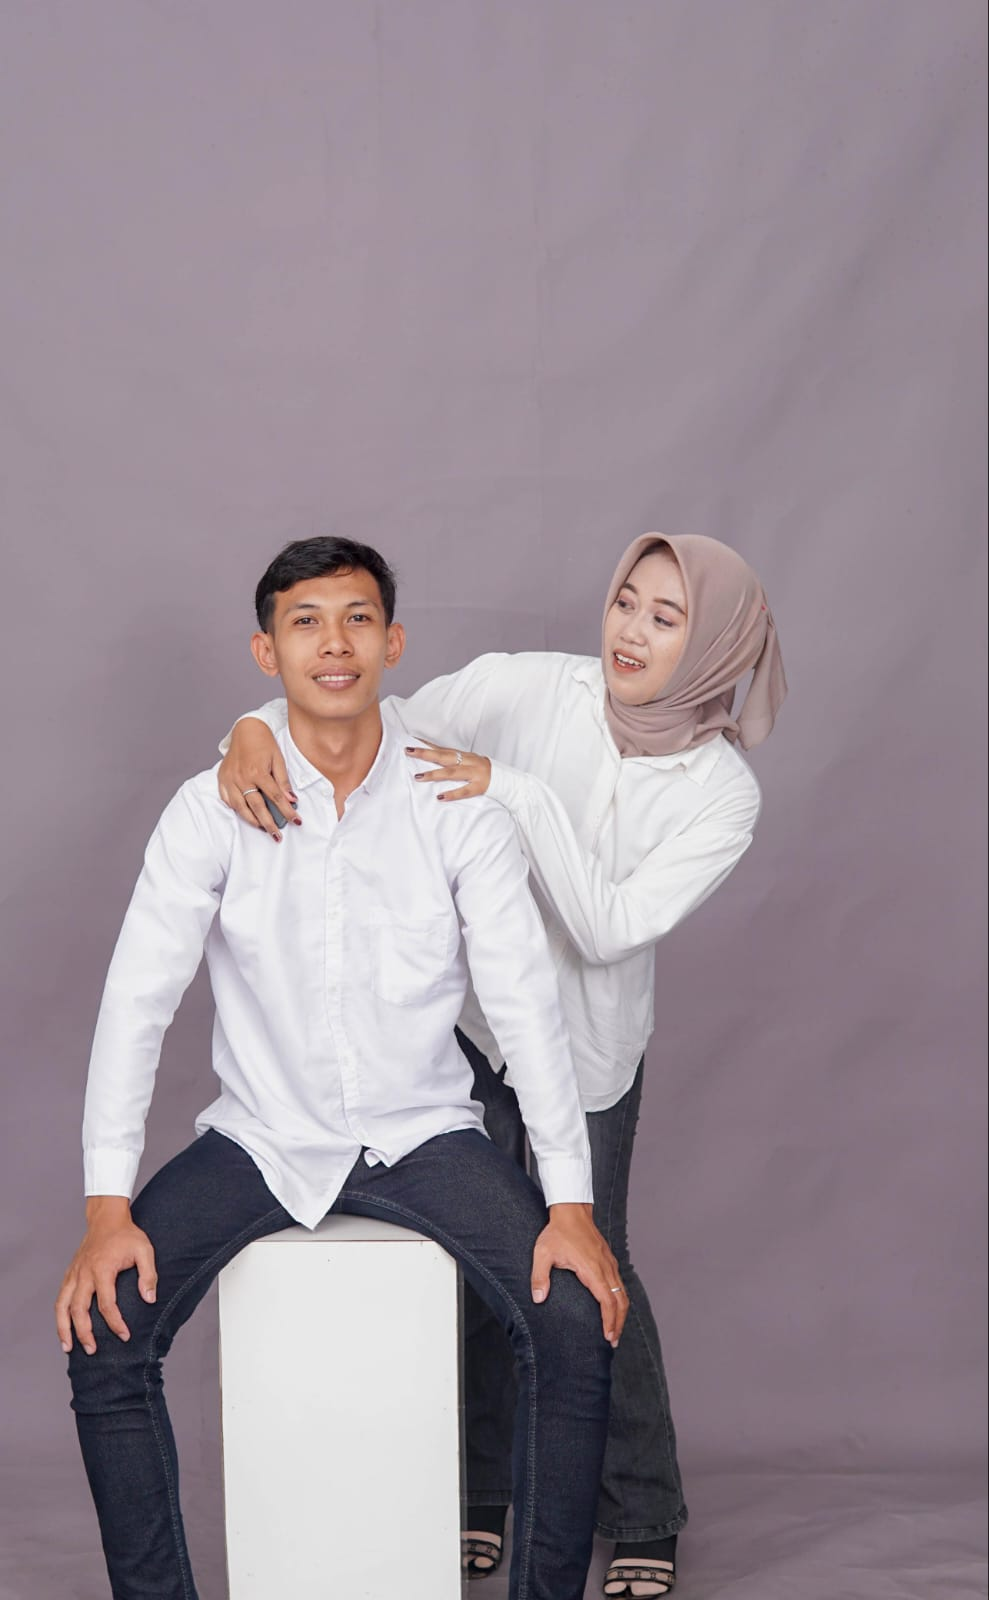
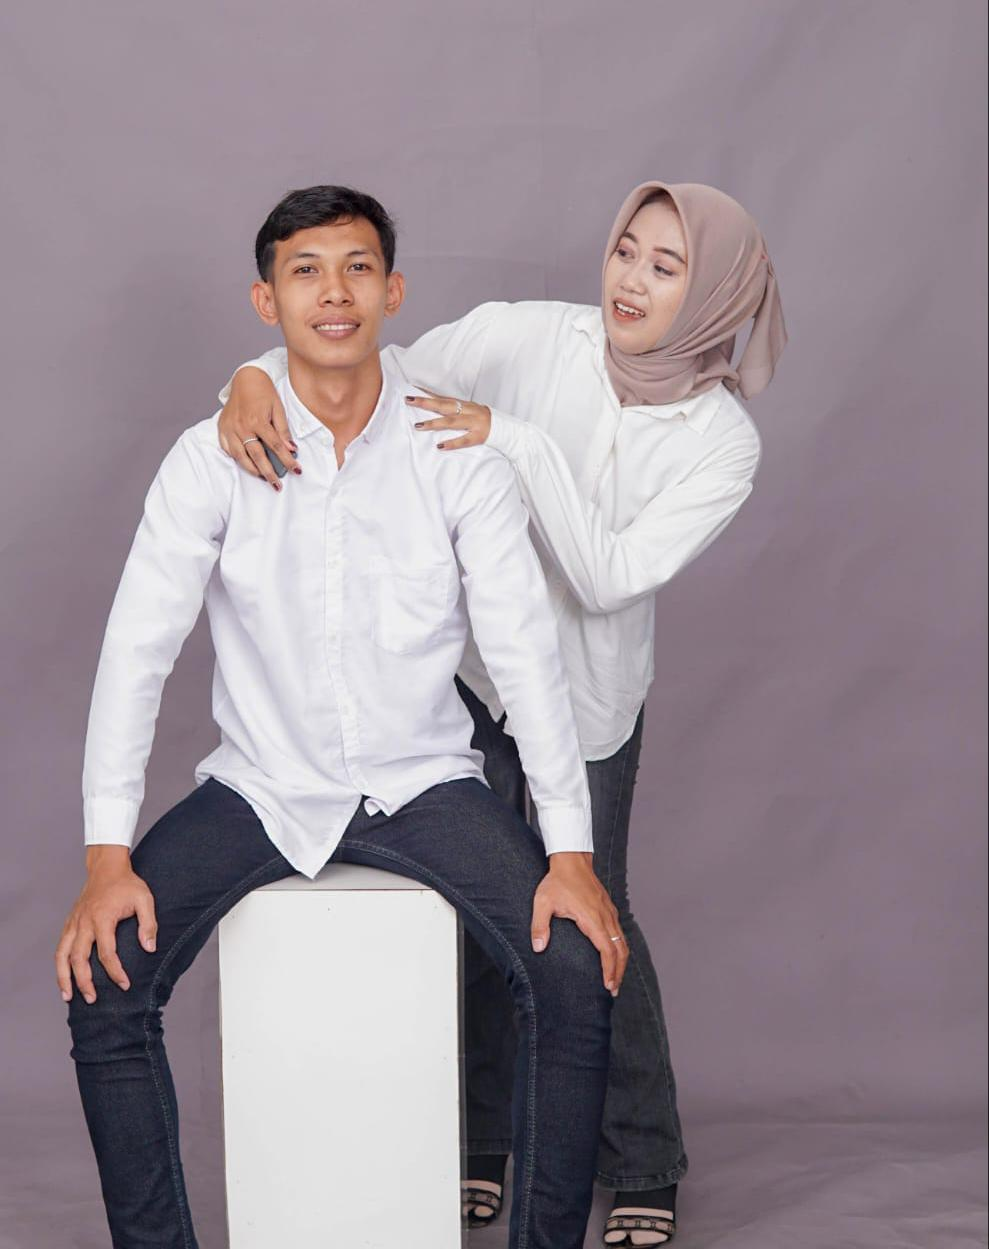
Add files via upload

diff --git a/style.css b/style.css
@@ -120,7 +120,8 @@ h1, h2, .subtitle, .footer h2 {
     background-repeat: no-repeat;
     display: flex;
     justify-content: center;
-    align-items: center;
+    align-items: flex-end; /* Memindahkan ke bawah */
+    padding-bottom: 40px; /* Jarak dari bawah layar */
     z-index: 9999;
     text-align: center;
     transition: opacity 1s ease, transform 1s ease;
@@ -128,12 +129,12 @@ h1, h2, .subtitle, .footer h2 {
 
 .cover-content {
     background: rgba(255, 255, 255, 0.95);
-    padding: 50px 30px;
+    padding: 35px 20px; /* Sedikit dikurangi padding atas bawahnya agar proporsional */
     border-radius: 15px;
     box-shadow: 0 10px 30px rgba(212, 122, 143, 0.2);
     border: 2px solid var(--pink-dark);
-    max-width: 90%;
-    width: 400px;
+    max-width: 500px; /* Diperlebar */
+    width: 92%; /* Agar melebar penuh di HP */
 }
 
 .cover-content .subtitle {